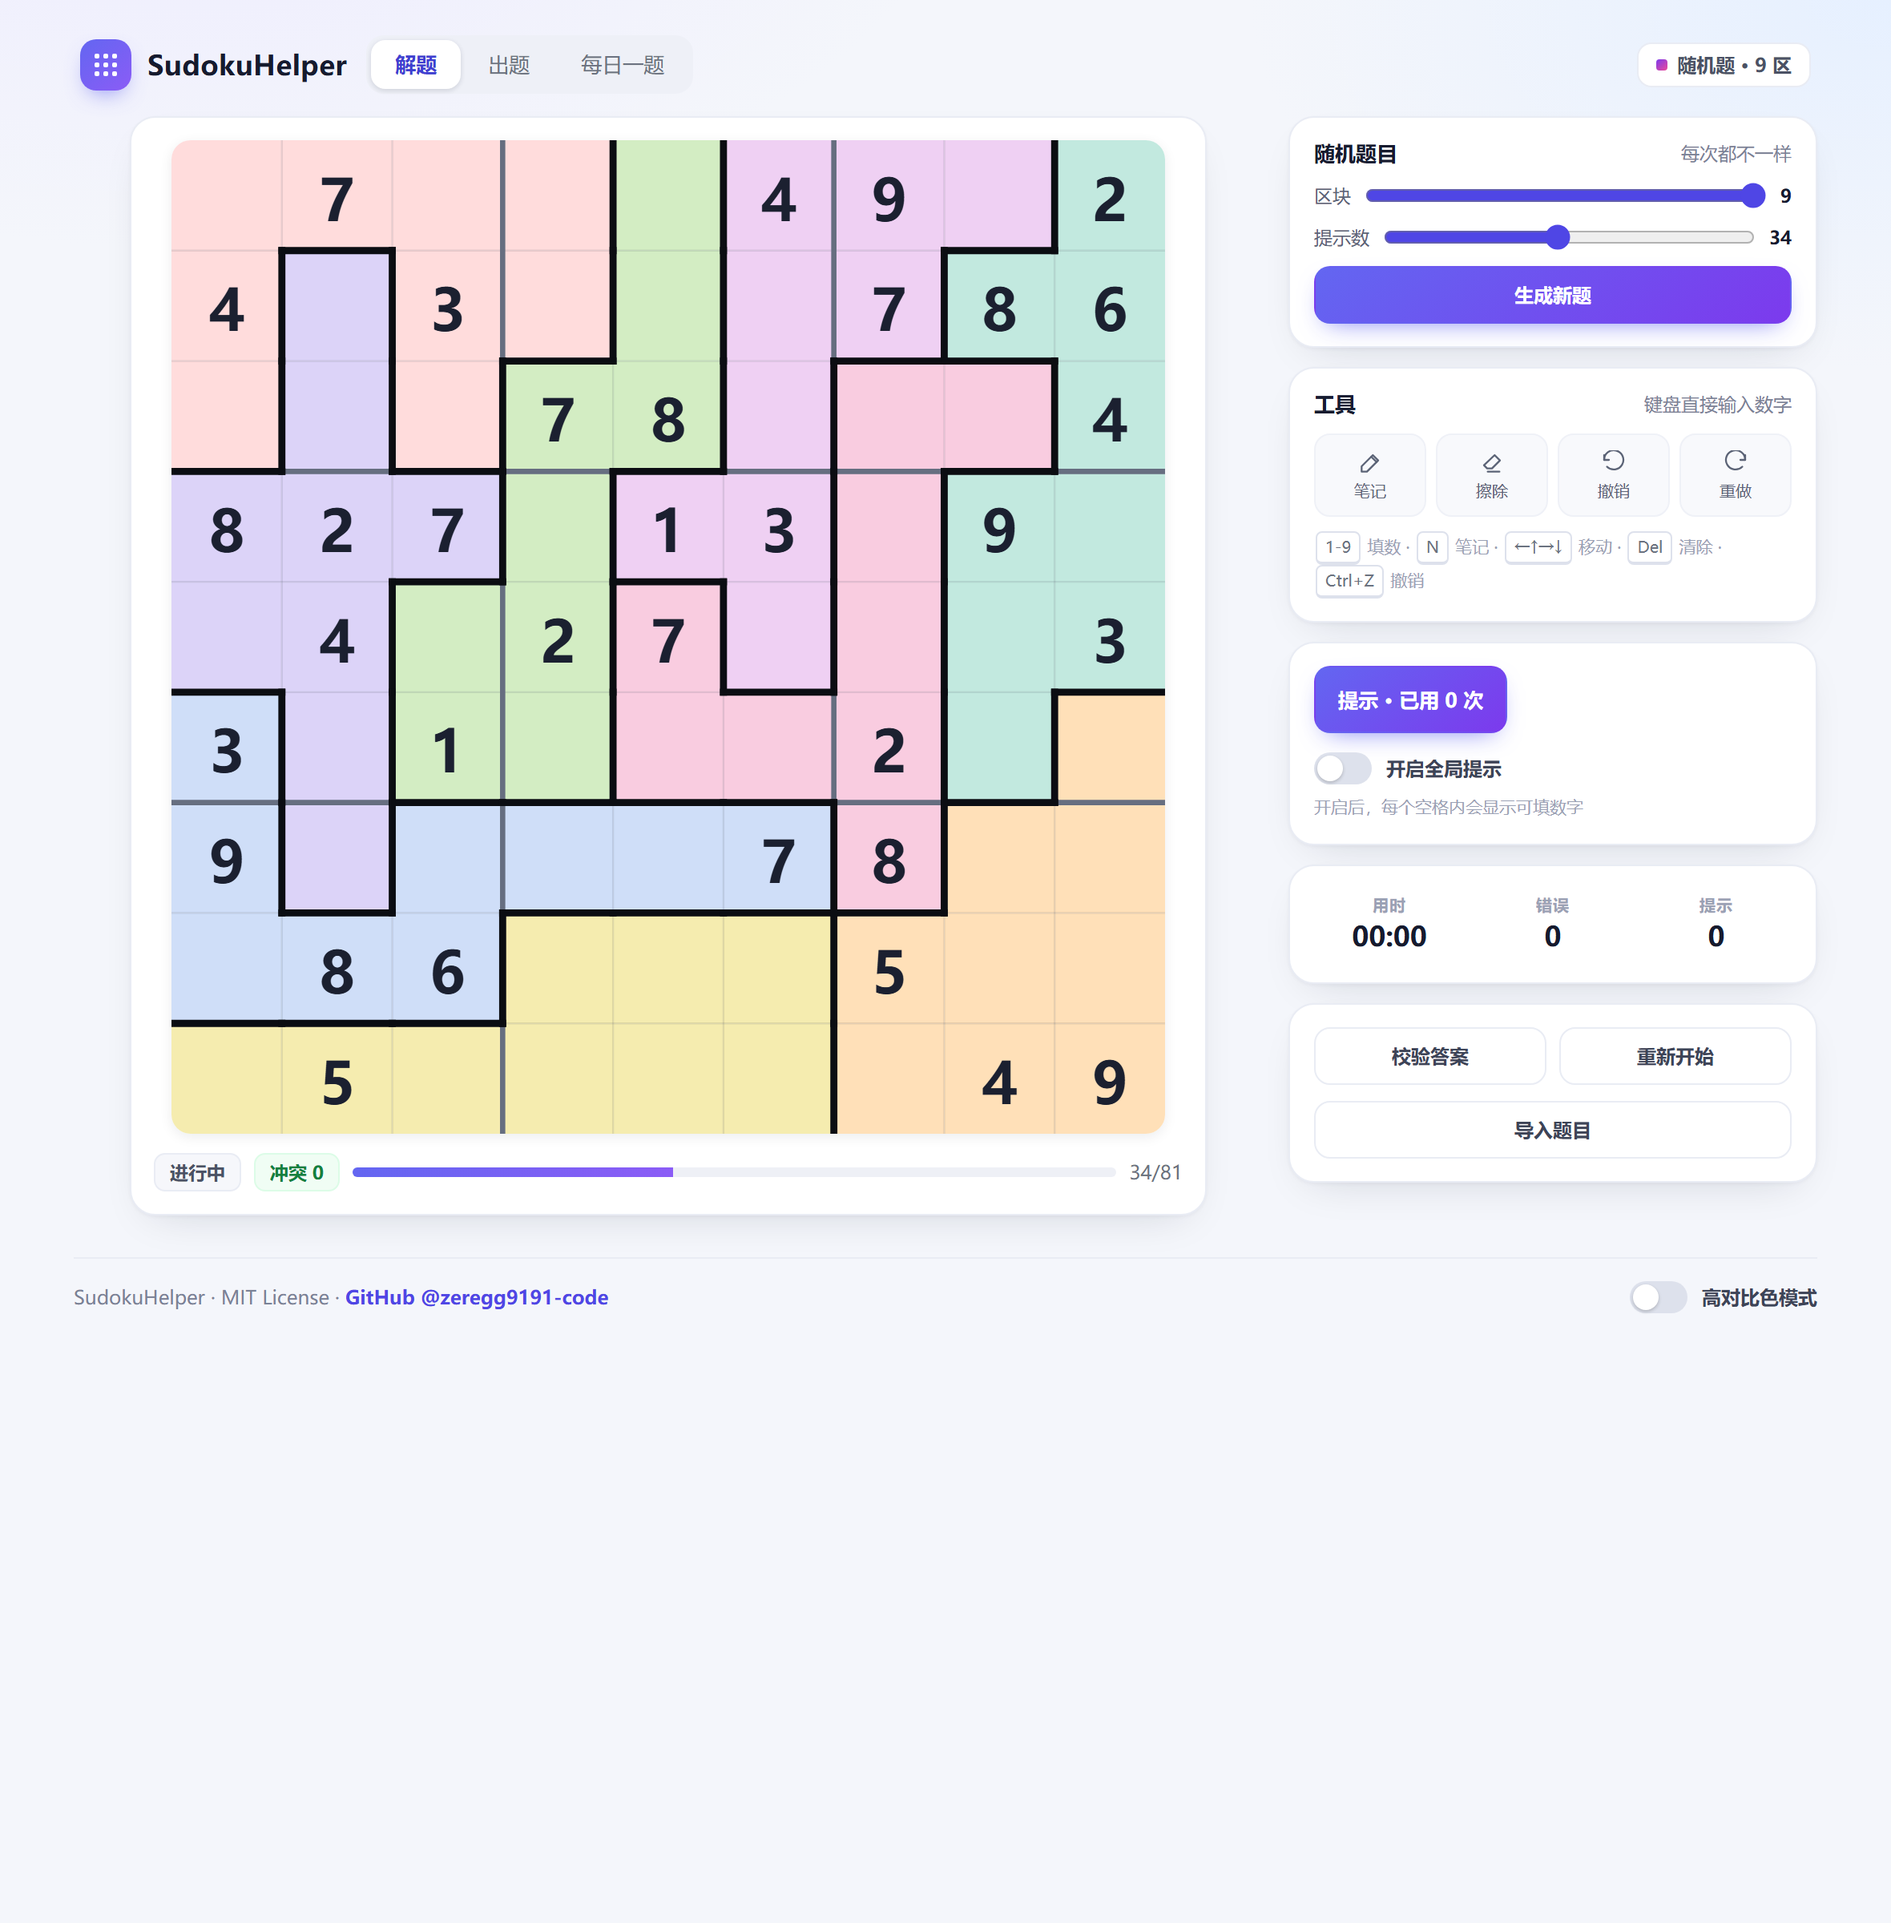
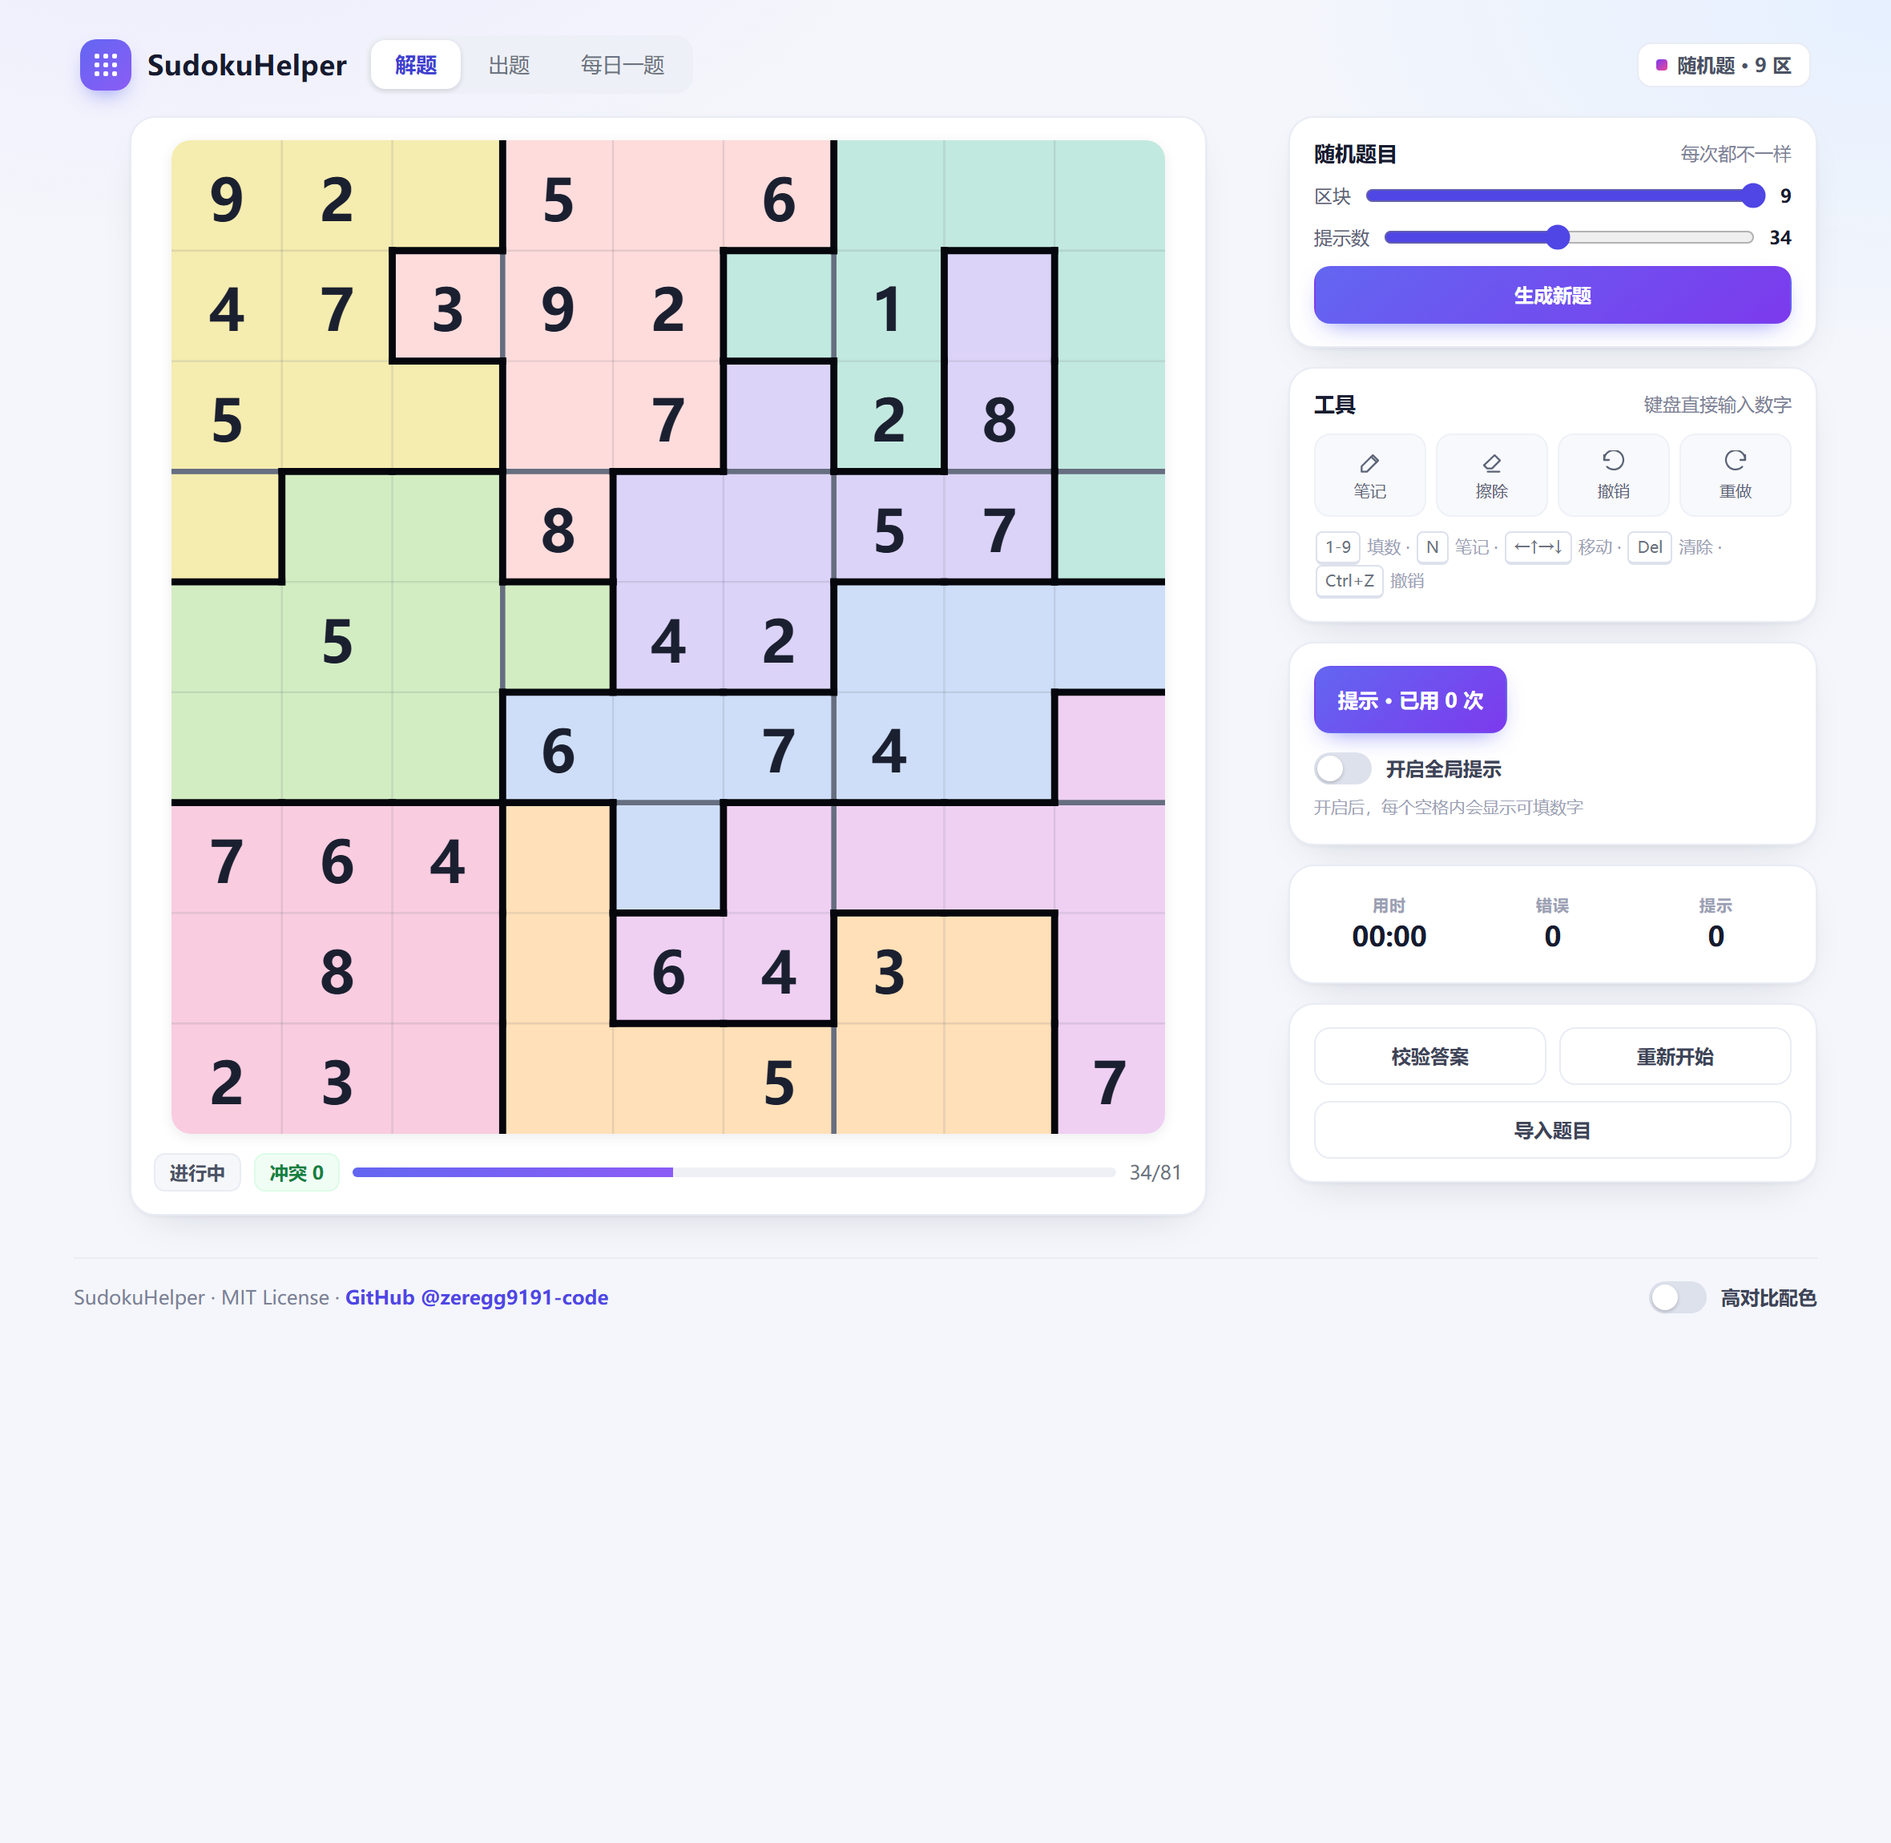
fix: 高对比改为只调整棋盘配色，同数字整格反白
- 去掉整页深色主题，页面保持浅色
- 高对比配色：区域底色接近白、线条更粗更深
- 选中数字时同数字格子深底白字，一眼可见
- 冲突格实心红底白字，选中框加粗

diff --git a/sudoku.html b/sudoku.html
@@ -158,54 +158,8 @@ input[type=range]{accent-color:var(--accent)}
   border-top:1px solid var(--line);font-size:12px;color:var(--muted);flex-wrap:wrap}
 .footer a{color:var(--accent);text-decoration:none;font-weight:600}
 .footer a:hover{text-decoration:underline}
+.board-wrap.hc{box-shadow:0 0 0 2px #0B0D12,0 2px 10px rgba(16,24,40,.16)}
 
-/* ---------- 高对比色模式 ---------- */
-body.hc{background:#07090E;color:#F5F7FB;--ink:#F5F7FB;--muted:#C2CADA;--line:#333B4D;--card:#12161E;
-  --bg:#07090E;--accent:#8B93FF;--shadow:0 1px 2px rgba(0,0,0,.6),0 14px 32px -14px rgba(0,0,0,.9)}
-body.hc .card{background:#12161E;border-color:#333B4D}
-body.hc .topbar .brand b{color:#fff}
-body.hc .tabs{background:#1B2130}
-body.hc .tabs button{color:#CBD3E1}
-body.hc .tabs button.on{background:#39415A;color:#fff}
-body.hc .chip{background:#1B2130;border-color:#39415A;color:#E2E8F4}
-body.hc .btn{background:#1B2130;border-color:#3A4358;color:#F0F3F9}
-body.hc .btn:hover{background:#242C3D}
-body.hc .btn.primary{background:linear-gradient(140deg,#6D74FF,#9B5BFF);color:#fff}
-body.hc .tool{background:#171C27;border-color:#333B4D;color:#D7DEEA}
-body.hc .tool:hover{background:#202736}
-body.hc .tool.on{background:#2B3160;border-color:#6D74FF;color:#D9DBFF}
-body.hc .pill{background:#1B2130;border-color:#3A4358;color:#E2E8F4}
-body.hc .pill.green{background:#0E2F1C;border-color:#2A7A47;color:#9BF0B9}
-body.hc .pill.red{background:#3A1414;border-color:#8C3030;color:#FFBDBD}
-body.hc .pill.amber{background:#38290B;border-color:#8A6A16;color:#FFD98A}
-body.hc .pill.blue{background:#1D2350;border-color:#4B54A8;color:#C9CDFF}
-body.hc .slot{background:#171C27;border-color:#333B4D;color:#F0F3F9}
-body.hc .slot.on{outline-color:#8B93FF}
-body.hc .slot.warn{background:#38290B;border-color:#8A6A16;color:#FFD98A}
-body.hc .slot.idle{color:#8C97AB}
-body.hc .kbd{background:#1B2130;border-color:#3A4358;color:#D7DEEA}
-body.hc .bar,body.hc .prog{background:#263041}
-body.hc .day{background:#171C27;border-color:#333B4D;color:#B9C2D3}
-body.hc .day.ok{background:#0E2F1C;border-color:#2A7A47;color:#9BF0B9}
-body.hc .day.today{background:#232A3B;color:#F0F3F9;outline-color:#8B93FF}
-body.hc .hintline{color:#C2CADA}
-body.hc .hintline b{color:#AEB4FF}
-body.hc .footnote,body.hc .stat .k{color:#98A2B8}
-body.hc .muted{color:#A8B2C6}
-body.hc .range{color:#D7DEEA}
-body.hc .overlay{background:rgba(7,9,14,.9);color:#F5F7FB}
-body.hc .loading{background:rgba(7,9,14,.92)}
-body.hc #loadingText{color:#E2E8F4}
-body.hc .spinner{border-color:#333B4D;border-top-color:#8B93FF}
-body.hc .modal-card{background:#12161E;border:1px solid #333B4D}
-body.hc .modal-card p{color:#B9C2D3}
-body.hc .modal-card textarea{background:#0C1017;border-color:#333B4D;color:#F0F3F9}
-body.hc .board-wrap{background:#fff;box-shadow:0 0 0 2px #6D74FF,0 2px 8px rgba(0,0,0,.6)}
-body.hc #errbox{background:#3A1414;border-color:#8C3030;color:#FFBDBD}
-body.hc .footer a{color:#AEB4FF}
-body.hc .switch input{background:#3A4358}
-body.hc .switch input:checked{background:#6D74FF}
-body.hc .switch span{color:#E2E8F4}
 </style>
 </head>
 <body>
@@ -366,7 +320,7 @@ body.hc .switch span{color:#E2E8F4}
 
   <footer class="footer">
     <div>SudokuHelper · MIT License · <a href="https://github.com/zeregg9191-code" target="_blank" rel="noopener noreferrer">GitHub @zeregg9191-code</a></div>
-    <label class="switch" style="margin:0"><input type="checkbox" id="chkHC"><span>高对比色模式</span></label>
+    <label class="switch" style="margin:0"><input type="checkbox" id="chkHC"><span title="棋盘换成更浅的底色、更深的线条，选中数字时整格反白">高对比配色</span></label>
   </footer>
 </div>
 
@@ -890,6 +844,12 @@ if (typeof globalThis !== 'undefined') globalThis.SC = SC;
     return /^https?:/i.test(u) ? u : '【网址】';
   }
 
+  // 高对比配色：底色接近白、边框更深，让数字高亮更扎眼
+  const PAL_HC = [
+    ['#FFF3F3', '#B3373B'], ['#FFF5E8', '#A35A18'], ['#FDFAE0', '#7F6B10'],
+    ['#F2FBEA', '#3B7A2C'], ['#E9F9F5', '#1B6E60'], ['#EEF4FF', '#2A5AA8'],
+    ['#F3F0FF', '#4A3A9A'], ['#FCF0FD', '#783D8C'], ['#FFF1F7', '#96355F']
+  ];
   const PAL = [
     ['#FFDCDC', '#D97070'], ['#FFE0B8', '#CE8236'], ['#F5ECAF', '#AE9B33'],
     ['#D3EDC3', '#689B54'], ['#C2E9DF', '#3E9384'], ['#CFDEF8', '#567FC0'],
@@ -1001,11 +961,13 @@ if (typeof globalThis !== 'undefined') globalThis.SC = SC;
     const conflicts = create ? new Set() : SC.conflictsOf(grid, regions);
     const selDigit = S.sel >= 0 ? grid[S.sel] : 0;
     const showCand = S.mode === 'play' && S.showCand;
+    const hc = !!S.hc;
+    const pal = hc ? PAL_HC : PAL;
     const parts = [];
     parts.push('<g>');
     for (let i = 0; i < 81; i++) {
       const r = (i / 9) | 0, c = i % 9, k = regions[i];
-      const fill = k >= 0 ? PAL[k][0] : (create ? '#F6F7FB' : '#FFFFFF');
+      const fill = k >= 0 ? pal[k][0] : (create ? '#F6F7FB' : '#FFFFFF');
       parts.push('<rect x="' + c + '" y="' + r + '" width="1" height="1" fill="' + fill + '"/>');
     }
     parts.push('</g>');
@@ -1013,16 +975,23 @@ if (typeof globalThis !== 'undefined') globalThis.SC = SC;
     parts.push('<g>');
     for (let i = 0; i < 81; i++) {
       const r = (i / 9) | 0, c = i % 9;
-      if (selDigit && grid[i] === selDigit) parts.push('<rect x="' + c + '" y="' + r + '" width="1" height="1" fill="#4F46E5" fill-opacity="0.13"/>');
-      if (conflicts.has(i)) parts.push('<rect x="' + c + '" y="' + r + '" width="1" height="1" fill="#EF4444" fill-opacity="0.18"/>');
+      if (selDigit && grid[i] === selDigit) {
+        parts.push(hc
+          ? '<rect x="' + c + '" y="' + r + '" width="1" height="1" fill="#0E1220"/>'
+          : '<rect x="' + c + '" y="' + r + '" width="1" height="1" fill="#4F46E5" fill-opacity="0.13"/>');
+      }
+      if (conflicts.has(i)) {
+        parts.push(hc
+          ? '<rect x="' + c + '" y="' + r + '" width="1" height="1" fill="#C81E1E"/>'
+          : '<rect x="' + c + '" y="' + r + '" width="1" height="1" fill="#EF4444" fill-opacity="0.18"/>');
+      }
     }
     parts.push('</g>');
 
     // lines
-    const hc = !!S.hc;
-    const thin = '<g stroke="#1D2333" stroke-opacity="' + (hc ? '0.22' : '0.11') + '" stroke-width="' + (hc ? '0.022' : '0.017') + '">';
-    const box = '<g stroke="' + (hc ? '#2F3849' : '#666E80') + '" stroke-width="' + (hc ? '0.06' : '0.048') + '">';
-    const thick = '<g stroke="#0B0D12" stroke-width="' + (hc ? '0.08' : '0.064') + '" stroke-linecap="square">';
+    const thin = '<g stroke="#1D2333" stroke-opacity="' + (hc ? '0.28' : '0.11') + '" stroke-width="' + (hc ? '0.024' : '0.017') + '">';
+    const box = '<g stroke="' + (hc ? '#20283A' : '#666E80') + '" stroke-width="' + (hc ? '0.07' : '0.048') + '">';
+    const thick = '<g stroke="#05070D" stroke-width="' + (hc ? '0.085' : '0.064') + '" stroke-linecap="square">';
     const dash = '<g stroke="#8E97AC" stroke-width="0.030" stroke-dasharray="0.14 0.10">';
     let t1 = '', t2 = '', t3 = '', t4 = '';
     for (let r = 0; r < 9; r++) for (let c = 0; c < 9; c++) {
@@ -1057,8 +1026,10 @@ if (typeof globalThis !== 'undefined') globalThis.SC = SC;
       const r = (i / 9) | 0, c = i % 9;
       const v = grid[i];
       if (v) {
-        let color = givens[i] ? '#1B2030' : '#2F4FD8';
-        if (conflicts.has(i)) color = '#DC2626';
+        const isSelNum = selDigit && grid[i] === selDigit;
+        let color;
+        if (hc) color = (conflicts.has(i) || isSelNum) ? '#FFFFFF' : (givens[i] ? '#05070D' : '#15308F');
+        else color = conflicts.has(i) ? '#DC2626' : (givens[i] ? '#1B2030' : '#2F4FD8');
         parts.push('<text x="' + (c + 0.5) + '" y="' + (r + 0.53) + '" font-size="0.52" font-weight="600" fill="' + color + '">' + v + '</text>');
         if (create && S.fixed[i]) {
           parts.push('<circle cx="' + (c + 0.78) + '" cy="' + (r + 0.8) + '" r="0.045" fill="#4F46E5" fill-opacity="0.7"/>');
@@ -1100,15 +1071,16 @@ if (typeof globalThis !== 'undefined') globalThis.SC = SC;
           if (d < bd) { bd = d; best = i; }
         }
         const r = (best / 9) | 0, c = best % 9;
-        parts.push('<rect x="' + (c + 0.5 - 0.16) + '" y="' + (r + 0.5 - 0.11) + '" width="0.32" height="0.22" rx="0.05" fill="#fff" fill-opacity="0.88" stroke="' + PAL[k][1] + '" stroke-width="0.018"/>');
-        parts.push('<text x="' + (c + 0.5) + '" y="' + (r + 0.51) + '" font-size="0.15" font-weight="700" fill="' + PAL[k][1] + '">R' + (k + 1) + '</text>');
+        parts.push('<rect x="' + (c + 0.5 - 0.16) + '" y="' + (r + 0.5 - 0.11) + '" width="0.32" height="0.22" rx="0.05" fill="#fff" fill-opacity="0.88" stroke="' + pal[k][1] + '" stroke-width="0.018"/>');
+        parts.push('<text x="' + (c + 0.5) + '" y="' + (r + 0.51) + '" font-size="0.15" font-weight="700" fill="' + pal[k][1] + '">R' + (k + 1) + '</text>');
       }
       parts.push('</g>');
     }
 
     if (S.sel >= 0) {
       const r = (S.sel / 9) | 0, c = S.sel % 9;
-      parts.push('<rect x="' + (c + 0.03) + '" y="' + (r + 0.03) + '" width="0.94" height="0.94" rx="0.08" fill="none" stroke="#4F46E5" stroke-width="0.055"/>');
+      parts.push('<rect x="' + (c + 0.03) + '" y="' + (r + 0.03) + '" width="0.94" height="0.94" rx="0.08" fill="none" stroke="' +
+        (hc ? '#05070D' : '#4F46E5') + '" stroke-width="' + (hc ? 0.085 : 0.055) + '"/>');
     }
     if (create && dragStart >= 0 && dragCur >= 0 && S.create.tool === 'rect') {
       const r1 = Math.min(((dragStart / 9) | 0), ((dragCur / 9) | 0)), r2 = Math.max(((dragStart / 9) | 0), ((dragCur / 9) | 0));
@@ -1904,7 +1876,10 @@ if (typeof globalThis !== 'undefined') globalThis.SC = SC;
   /* ---------------- 高对比色 ---------------- */
   function applyHC(on) {
     S.hc = !!on;
-    document.body.classList.toggle('hc', S.hc);
+    const wrap = document.querySelector('.board-wrap');
+    if (wrap) wrap.classList.toggle('hc', S.hc);
+    const sw = document.querySelector('#chkHC');
+    if (sw) sw.checked = S.hc;
     try { localStorage.setItem('jsw.hc', S.hc ? '1' : '0'); } catch (e) {}
     renderBoard();
   }
@@ -2163,6 +2138,7 @@ if (typeof globalThis !== 'undefined') globalThis.SC = SC;
     }
     setMode('play');
   })();
+
 
 
 })();

diff --git a/README.md b/README.md
@@ -59,7 +59,7 @@
 ### 4. 界面
 
 - **页脚**：`SudokuHelper · MIT License · GitHub @zeregg9191-code`，直达仓库作者主页；
-- **高对比色模式**：页脚右侧开关，深色底 + 加粗边框 + 更亮的强调色；选择会记在本地，也可以用 `?hc=1` / `?hc=0` 直接指定；
+- **高对比配色**：页脚右侧开关，只作用于棋盘——区域底色接近白、边框更粗更深；选中某个数字时，同数字的格子会**整格反白**（深底白字），一眼就能扫出来。页面主题本身不变；选择会记在本地，也可用 `?hc=1` / `?hc=0` 指定；
 - 出题页与解题页共用同一个棋盘，切页签不会丢状态。
 
 ---
